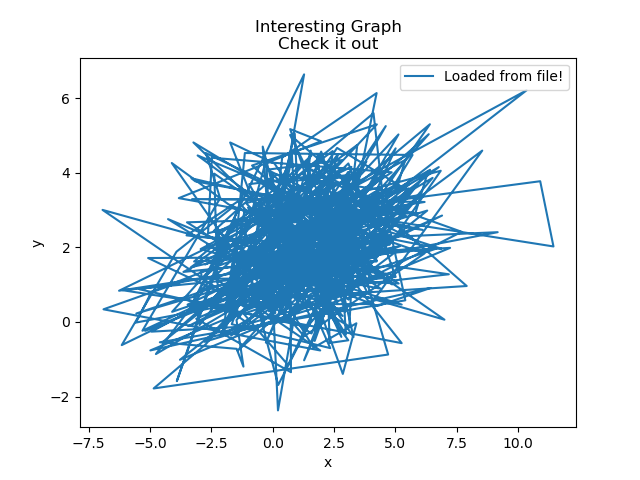
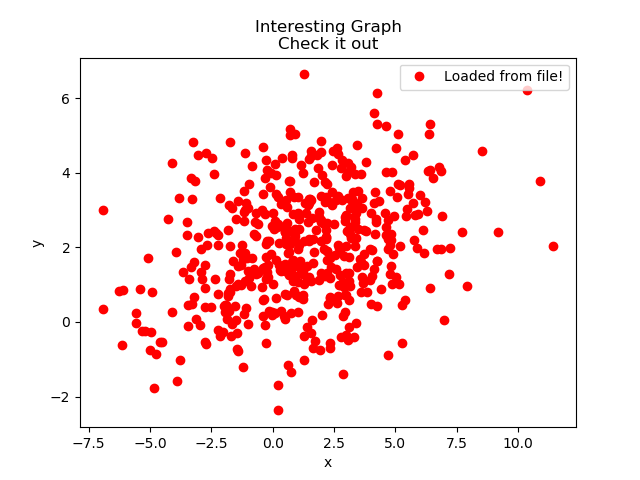
dots are necessary

diff --git a/Sample-2D-Data/plotclass.py b/Sample-2D-Data/plotclass.py
@@ -10,7 +10,7 @@ with open('Class1.txt', 'r') as csvfile:
         x.append(float(row[0]))
         y.append(float(row[1]))
 
-plt.plot(x, y, label='Loaded from file!')
+plt.plot(x, y, 'ro', label='Loaded from file!')
 plt.xlabel('x')
 plt.ylabel('y')
 plt.title('Interesting Graph\nCheck it out')
